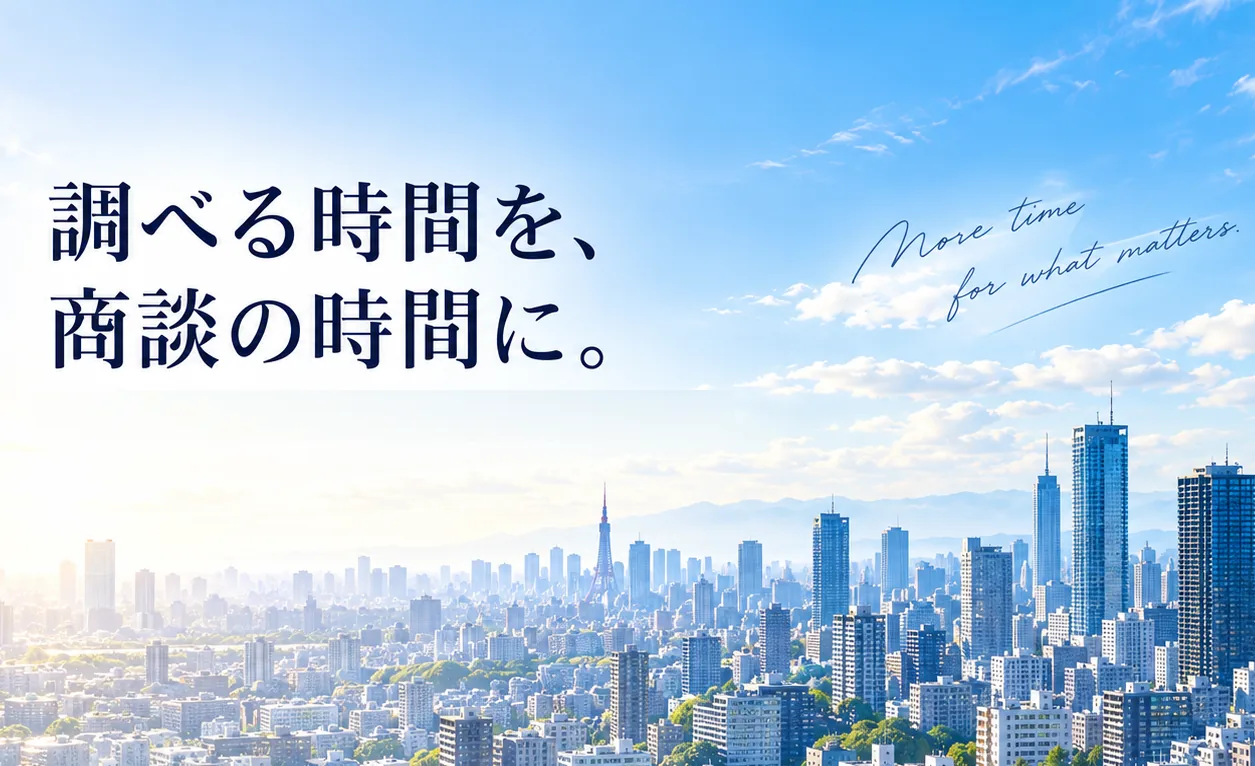
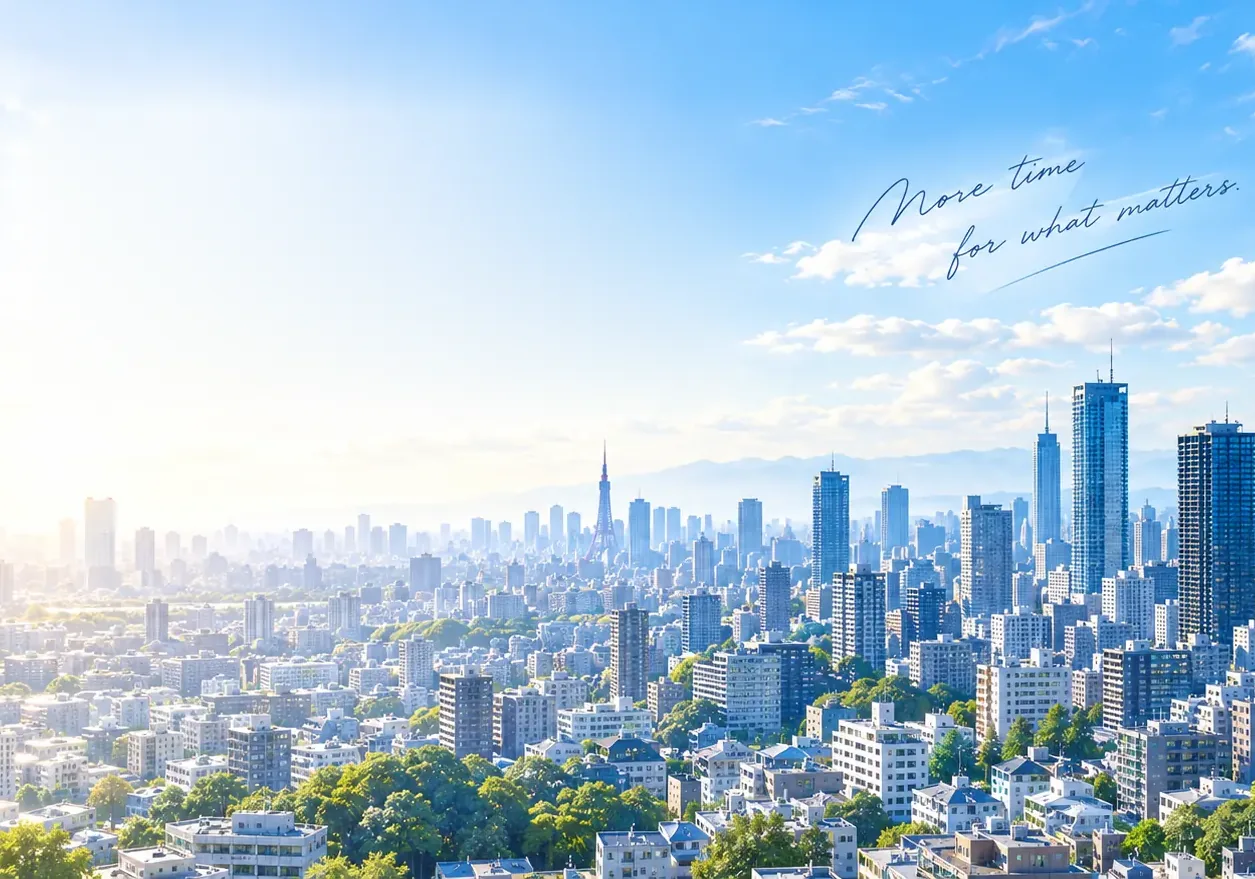
Show the skyline on the phone home and use one typeface
- The city photo keeps the delivered composition down to its bottom edge, and
  the search card moves down so the skyline shows between the headline and
  the card (and through the lighter frosted glass).
- The headline and tagline are drawn by the app at the picture's position and
  size; the photo no longer carries text.
- One typeface on the phone: Noto Sans JP everywhere. The serif section titles
  are gone and the Jost numerals in the result tabs use the body face too.
- The rest tightens slightly (recent cards, menu rows, banner) so the home
  still fits on iPhone mini, 16, 16 Pro and Pro Max. PC unchanged.

Claude-Session: https://claude.ai/code/session_01VXta14VyGyHnimiy8JAqdH

diff --git a/components/app/home.tsx b/components/app/home.tsx
@@ -1,18 +1,18 @@
 "use client";
 
 // スマホの新しいホーム（検索する前の画面）。届いた絵をそのまま使い、iPhone 16 Pro などの画面でスクロールせずに1画面に収まるように組んだもの。
-// 上から：街の写真（見出し「調べる時間を、商談の時間に。」は写真に入っている明朝の字。副題は同じゴシックでアプリが描く）の上にロゴ・お知らせ、
-// 調べるカード（住所も地番も1つの欄に入れる。地図で選ぶボタンつき。写真入りの「調査を開始する」）、最近の検索（写真つきのカードを横に
-// すべらせる）、調査メニュー（届いた絵の3Dアイコン・6つ）、書類を作るバナー（届いた絵。押すと書類・出力のページ）。
-// 字は写真の見出しに合わせて、章の見出し（最近の検索・調査メニュー）だけ同じ明朝（components/app/fonts.ts）。ほかは本文のゴシック。
-// 調べるカードはすりガラス（後ろの街の写真をぼかして見せる）。現れるときの動きとボタンの光は app/globals.css の .home-rise・.home-shine。
+// 上から：街の写真（届いた絵の構図のまま。見出し「調べる時間を、商談の時間に。」と副題は絵の字を消して、絵と同じ位置・大きさに
+// アプリの字で描く。写真の街並みが見出しの下に見えるよう、調べるカードは街並みの途中に重ねる）の上にロゴ・お知らせ、調べるカード
+// （住所も地番も1つの欄に入れる。地図で選ぶボタンつき。写真入りの「調査を開始する」）、最近の検索（写真つきのカードを横にすべらせる）、
+// 調査メニュー（届いた絵の3Dアイコン・6つ）、書類を作るバナー（届いた絵。押すと書類・出力のページ）。
+// 字はアプリ全体で Noto Sans JP の1種類（app/globals.css）。
+// 調べるカードはすりガラス（後ろの街の写真を少しぼかして透かす）。現れるときの動きとボタンの光は app/globals.css の .home-rise・.home-shine。
 // 寸法は幅393ptの値で、画面の幅に合わせて拡大・縮小する（components/app/zoom.ts）。幅に対して背の低い画面（iPhone SE など）では、
 // low:（app/globals.css）でカード・調査メニュー・バナーを少し詰める（それでも入りきらない分はスクロール）
 import { ArrowRight, Bell, ChevronRight, Info, LoaderCircle, Map as MapIcon, Search, TriangleAlert, X } from "lucide-react";
 import type { CSSProperties, RefObject } from "react";
 import { monthDay, placeholderScenes, placeParts, SCENES, sceneSrc, type SceneKey } from "@/lib/app/scene";
 import { historyKey, type HistoryItem } from "@/lib/history";
-import { serif } from "./fonts";
 import { LogoLockup, PhoneImg, ScaledInput } from "./frame";
 import type { TabKey } from "./property-head";
 import { NAVY } from "./ui";
@@ -29,19 +29,20 @@ const LINK = "#1f5fbf";
 const ACCENT = "linear-gradient(180deg,#3d7bff 0%,#22c1ee 100%)";
 
 /**
- * 写真の部分の高さ。写真（public/home/hero.webp）は届いた絵の 1672×941 から x125〜1380・y20〜786 を切り抜いたもので、幅393pt・高さ240pt
- * にぴったり合う（見出しの字は約25pt・上端は57pt）。調べるカードはこの下の方（158pt）に重ねる（カードの -mt）
+ * 写真の部分の高さ。写真（public/home/hero.webp）は届いた絵の 1672×941 から字を消して x125〜1380・y62〜941（下端まで）を切り抜いた
+ * もので、幅393pt・高さ275pt にぴったり合う。見出しは絵と同じ位置（上端44pt・字は25pt）に描く。街並みは147pt から下。
+ * 調べるカードは街並みが見えるよう 190pt から重ねる（カードの -mt）。写真の下端は地の色に溶かす
  */
-const PHOTO_H = 240;
+const PHOTO_H = 275;
 
-/** 写真の上の字が建物に重なっても読めるよう、白くにじませる（写真の見出しと同じ効き方） */
+/** 写真の上の字が建物に重なっても読めるよう、白くにじませる（届いた絵の見出しと同じ効き方） */
 const GLOW = "0 0 10px rgba(255,255,255,0.95), 0 0 3px rgba(255,255,255,0.95)";
-/** すりガラス（後ろをぼかして白く透かす。縁は白く光らせる） */
+/** すりガラス（後ろの街並みを少しぼかして白く透かす。縁は白く光らせる） */
 const GLASS: CSSProperties = {
-  background: "rgba(255,255,255,0.62)",
-  backdropFilter: "blur(18px) saturate(1.6)",
-  WebkitBackdropFilter: "blur(18px) saturate(1.6)",
-  border: "1px solid rgba(255,255,255,0.85)",
+  background: "rgba(255,255,255,0.46)",
+  backdropFilter: "blur(10px) saturate(1.5)",
+  WebkitBackdropFilter: "blur(10px) saturate(1.5)",
+  border: "1px solid rgba(255,255,255,0.8)",
 };
 /** 地の奥の淡い光（最近の検索から調査メニューのあたり。下の端に届く前に消える） */
 const AURORA =
@@ -109,34 +110,37 @@ export function HomeScreen({
   const scenes = placeholderScenes(recent);
 
   return (
-    <div className={`${serif.variable} app-touch relative overflow-hidden`} style={{ background: PAGE }}>
+    <div className="app-touch relative overflow-hidden" style={{ background: PAGE }}>
       <div aria-hidden className="pointer-events-none absolute inset-x-0 bottom-0" style={{ top: 280, background: AURORA }} />
 
-      {/* 街の写真の部分（見出しは写真の字。上端は時刻・電池の帯の色からつなぐ） */}
+      {/* 街の写真の部分（上端は時刻・電池の帯の色からつなぐ） */}
       <div className="relative overflow-hidden" style={{ height: PHOTO_H }}>
-        <PhoneImg src="/home/hero.webp" alt="" width={1255} height={766} draggable={false} className="absolute inset-0 h-full w-full object-cover" />
-        <div className="absolute inset-x-0 top-0" style={{ height: 48, background: `linear-gradient(180deg,${SKY} 0%,rgba(230,239,249,0) 100%)` }} />
-        <div className="absolute inset-x-0 bottom-0" style={{ height: 70, background: `linear-gradient(180deg,rgba(243,246,251,0) 0%,${PAGE} 92%)` }} />
-        <h1 className="sr-only">調べる時間を、商談の時間に。</h1>
-
-        <button onClick={onLogo} aria-label="MICHILU ホーム" className="absolute flex items-center" style={{ left: 16, top: 6, height: 44 }}>
-          <LogoLockup style={{ height: 30 }} />
+        <PhoneImg src="/home/hero.webp" alt="" width={1255} height={879} draggable={false} className="absolute inset-0 h-full w-full object-cover" />
+        <div className="absolute inset-x-0 top-0" style={{ height: 36, background: `linear-gradient(180deg,${SKY} 0%,rgba(230,239,249,0) 100%)` }} />
+        <div className="absolute inset-x-0 bottom-0" style={{ height: 40, background: `linear-gradient(180deg,rgba(243,246,251,0) 0%,${PAGE} 100%)` }} />
+        <button onClick={onLogo} aria-label="MICHILU ホーム" className="absolute flex items-center" style={{ left: 16, top: 4, height: 40 }}>
+          <LogoLockup style={{ height: 28 }} />
         </button>
-        <button onClick={onBell} aria-label={unread ? "お知らせ（新しいお知らせがあります）" : "お知らせ"} className="absolute flex items-center justify-center active:opacity-70" style={{ right: 8, top: 6, width: 44, height: 44 }}>
+        <button onClick={onBell} aria-label={unread ? "お知らせ（新しいお知らせがあります）" : "お知らせ"} className="absolute flex items-center justify-center active:opacity-70" style={{ right: 8, top: 3, width: 44, height: 44 }}>
           <span className="flex items-center justify-center rounded-full shadow-[0_4px_14px_rgba(15,47,95,0.14)]" style={{ ...GLASS, width: 38, height: 38 }}>
             <Bell size={19} strokeWidth={1.7} absoluteStrokeWidth color={HEAD} />
           </span>
           {unread && <span className="absolute rounded-full border-2 border-white bg-[#f0263a]" style={{ right: 6, top: 6, width: 11, height: 11 }} />}
         </button>
 
-        {/* 副題（写真の中の字は消してある。写真のままだと8.5ptで小さいので、同じゴシックで描く） */}
-        <p className="home-rise absolute whitespace-nowrap font-medium leading-none" style={{ left: 16, top: 125, fontSize: 12, letterSpacing: 0.9, color: "#26324a", textShadow: GLOW, fontFeatureSettings: '"palt"', ...rise(60) }}>
+        {/* 見出しと副題（絵と同じ位置・大きさ。絵の字は消してある） */}
+        <h1 className="home-rise absolute whitespace-nowrap font-bold" style={{ left: 16, top: 44, fontSize: 25, lineHeight: "33px", letterSpacing: 0.8, color: HEAD, textShadow: GLOW, fontFeatureSettings: '"palt"' }}>
+          調べる時間を、
+          <br />
+          商談の時間に。
+        </h1>
+        <p className="home-rise absolute whitespace-nowrap font-medium leading-none" style={{ left: 16, top: 112, fontSize: 12, letterSpacing: 0.9, color: "#26324a", textShadow: GLOW, fontFeatureSettings: '"palt"', ...rise(60) }}>
           不動産調査を、もっと早く、もっとシンプルに。
         </p>
       </div>
 
       {/* 調べる（すりガラスのカード。住所も地番もこの欄に入れる） */}
-      <div className="home-rise relative mx-[16px] -mt-[82px] rounded-[22px] p-[10px] shadow-[0_14px_34px_rgba(20,48,95,0.13)] low:p-[8px]" style={{ ...GLASS, ...rise(100) }}>
+      <div className="home-rise relative mx-[16px] -mt-[85px] rounded-[22px] p-[9px] shadow-[0_14px_34px_rgba(20,48,95,0.13)] low:p-[8px]" style={{ ...GLASS, ...rise(100) }}>
         <form
           role="search"
           onSubmit={(e) => {
@@ -216,7 +220,7 @@ export function HomeScreen({
                     aria-label={`${full}（${monthDay(h.at)}${kind ? `・${kind}` : ""}）を開く`}
                     className="block w-full overflow-hidden rounded-[16px] bg-white text-left shadow-[0_4px_14px_rgba(20,45,85,0.10)] transition-transform active:scale-[0.97]"
                   >
-                    <span className="relative block h-[62px] low:h-[50px]">
+                    <span className="relative block h-[52px] low:h-[46px]">
                       <PhoneImg src={sceneSrc(scene)} alt="" loading="lazy" draggable={false} className="block h-full w-full object-cover" style={{ objectPosition: `50% ${SCENES[scene].y}%` }} />
                       {kind && (
                         <span className="absolute rounded-full bg-white/85 px-[7px] py-[4px] font-bold leading-none backdrop-blur" style={{ left: 6, top: 6, fontSize: 10.5, color: NAVY }}>
@@ -245,14 +249,14 @@ export function HomeScreen({
       {/* 調査メニュー（届いた絵の3Dアイコン） */}
       <section className="home-rise relative mt-[2px]" style={rise(220)}>
         <SectionHead title="調査メニュー" onMore={onMenuAll} />
-        <div className="mt-[2px] grid grid-cols-2 gap-[7px] px-[16px] low:gap-[6px]">
+        <div className="mt-[2px] grid grid-cols-2 gap-[6px] px-[16px] low:gap-[5px]">
           {MENU.map((m) => (
             <button
               key={m.title}
               onClick={() => onMenu(m.tab, m.title)}
-              className="flex h-[48px] min-w-0 items-center rounded-[16px] border border-white bg-white text-left shadow-[0_4px_14px_rgba(20,45,85,0.07)] transition-transform active:scale-[0.97] low:h-[44px]"
+              className="flex h-[44px] min-w-0 items-center rounded-[16px] border border-white bg-white text-left shadow-[0_4px_14px_rgba(20,45,85,0.07)] transition-transform active:scale-[0.97] low:h-[42px]"
             >
-              <PhoneImg src={`/home/menu/${m.icon}.webp`} alt="" draggable={false} className="ml-[2px] block size-[44px] shrink-0 low:size-[40px]" />
+              <PhoneImg src={`/home/menu/${m.icon}.webp`} alt="" draggable={false} className="ml-[2px] block size-[40px] shrink-0 low:size-[38px]" />
               <span className="ml-[4px] min-w-0 flex-1">
                 <span className="block whitespace-nowrap font-bold leading-[1.25]" style={{ fontSize: 14, color: TEXT, fontFeatureSettings: '"palt"' }}>
                   {m.title}
@@ -270,7 +274,7 @@ export function HomeScreen({
       {/* 書類を作る（届いた絵のバナー。写真の書類の左の空いた所に字を置く。押すと書類・出力のページ） */}
       <button
         onClick={onDocs}
-        className="home-rise relative mx-[16px] mb-[10px] mt-[10px] block h-[62px] w-[calc(100%-32px)] overflow-hidden rounded-[16px] text-left shadow-[0_6px_20px_rgba(60,40,20,0.10)] transition-transform active:scale-[0.985] low:mb-[8px] low:mt-[8px] low:h-[56px]"
+        className="home-rise relative mx-[16px] mb-[8px] mt-[8px] block h-[58px] w-[calc(100%-32px)] overflow-hidden rounded-[16px] text-left shadow-[0_6px_20px_rgba(60,40,20,0.10)] transition-transform active:scale-[0.985] low:mb-[6px] low:mt-[6px] low:h-[54px]"
         style={rise(280)}
       >
         <PhoneImg src="/home/docs.webp" alt="" loading="lazy" draggable={false} className="absolute inset-0 h-full w-full object-cover" style={{ objectPosition: "0% 50%" }} />
@@ -290,13 +294,13 @@ export function HomeScreen({
   );
 }
 
-/** 章の見出し（写真の見出しと同じ明朝。左に青い印）と「すべて見る ›」（押せる高さは44pt） */
+/** 章の見出し（左に青い印）と「すべて見る ›」（押せる高さは44pt） */
 function SectionHead({ title, onMore }: { title: string; onMore?: () => void }) {
   return (
-    <div className="flex h-[28px] items-center justify-between px-[16px] low:h-[26px]">
+    <div className="flex h-[26px] items-center justify-between px-[16px]">
       <div className="flex min-w-0 items-center gap-[7px]">
         <span aria-hidden className="shrink-0 rounded-full" style={{ width: 3.5, height: 15, background: ACCENT }} />
-        <h2 className="home-serif whitespace-nowrap font-bold leading-none" style={{ fontSize: 17, color: HEAD, letterSpacing: 0.5 }}>
+        <h2 className="whitespace-nowrap font-bold leading-none" style={{ fontSize: 17, color: HEAD, letterSpacing: 0.3 }}>
           {title}
         </h2>
       </div>
@@ -316,7 +320,7 @@ function FirstRun() {
     <div className="mx-[16px] mb-[4px] mt-[2px] rounded-[16px] bg-white p-[10px] shadow-[0_4px_14px_rgba(20,45,85,0.08)]">
       <div className="grid grid-cols-3 gap-[6px]">
         {SAMPLE.map((k) => (
-          <PhoneImg key={k} src={sceneSrc(k)} alt="" loading="lazy" draggable={false} className="block h-[46px] w-full rounded-[10px] object-cover low:h-[36px]" style={{ objectPosition: `50% ${SCENES[k].y}%` }} />
+          <PhoneImg key={k} src={sceneSrc(k)} alt="" loading="lazy" draggable={false} className="block h-[40px] w-full rounded-[10px] object-cover low:h-[34px]" style={{ objectPosition: `50% ${SCENES[k].y}%` }} />
         ))}
       </div>
       <p className="mt-[8px] px-[2px] font-bold leading-[1.3]" style={{ fontSize: 14, color: TEXT }}>

diff --git a/app/globals.css b/app/globals.css
@@ -43,6 +43,10 @@
   --color-mint: #e8eef5;
   --color-line: #dde5ee;
 }
+/* スマホの画面の字は Noto Sans JP の1種類にそろえる（数字・英字の Jost も使わない。PC はそのまま） */
+.theme-navy {
+  --font-latin: var(--font-noto-sans-jp), "Hiragino Sans", "Noto Sans JP", sans-serif;
+}
 .theme-navy .bg-gold {
   background: linear-gradient(135deg, #1b4280 0%, #0f2f5f 55%, #0a2248 100%);
 }
@@ -84,7 +88,7 @@
 /*
  * スマホの新しいホーム（components/app/home.tsx）を1画面に収める詰め方。ホームは幅で拡大・縮小するので、幅に対して背の低い画面
  * （高さ÷幅が 1.985 より小さい。iPhone SE・8 Plus など）では、調べるカード・最近の検索・調査メニュー・バナーを少し詰める
- * （写真の見出しは写真の字なので詰められない。SE・8 Plus はそれでも少しスクロールする）。
+ * （写真の部分は写真の字と街並みなので詰められない。SE・8 Plus はそれでもスクロールする）。
  * iPhone の mini・無印・Pro・Pro Max（ホーム画面に追加したアプリ）は詰めずに収まる。ホームの高さを変えたら 1.985 も見直す
  */
 @custom-variant low {
@@ -119,13 +123,6 @@ body {
   font-family: var(--font-noto-sans-jp), "Hiragino Sans", "Noto Sans JP", sans-serif;
   font-feature-settings: "palt"; /* 約物を詰めて見た目を整える */
   letter-spacing: 0.01em;
-}
-
-/* スマホの新しいホームの章の見出しの明朝（components/app/fonts.ts。写真の見出しと同じ字）。PC の幅では使わない */
-@media (max-width: 1023px) {
-  .home-serif {
-    font-family: var(--font-serif-jp), serif;
-  }
 }
 
 /*

diff --git a/docs/features.md b/docs/features.md
@@ -228,9 +228,9 @@
 44. **要注意点と次にやること**（`lib/app/triage.ts`、`components/triage-sheet.tsx`、`lib/checklist.ts`）: 調べた結果を並べる前に、この物件で問題になりそうな所（要注意＝データで制限・危険が見つかった、要確認＝データが無い・参考なので確かめる）と、窓口ごとの次にやること（何を・どこで・どうやって・持ち物・リンク・電話）を出す。やることは済んだ印を端末に残せる（物件ごと）。スマホは「レポートを作成」の先頭、PC は印刷のメニューの先頭から開き、共有の文の先頭・調査メモ（印刷）の見出しの下にも入る。確認用ページ `/check` にも出す。画面のどこに「先に」出すかは見た目の方針に合わせて決める（部品 `TriageBody` と見出しの一言 `triage.headline` はどこにでも置ける）。法令の判断はしない。
 
 45. **スマホの新しいホーム**（`components/app/home.tsx`、素材は `public/home/`）: 届いた絵（街の写真・写真入りの「調査を開始する」・調査メニューの3Dアイコン・書類のバナー）をそのまま使い、スクロールせずに1画面に収める。PC は変えない。
-    - 上から：街の写真（見出し「調べる時間を、商談の時間に。」は届いた絵の明朝の字のまま。副題は絵のままだと8.5ptで小さいので消して、同じゴシックでアプリが描く）の上にロゴ・お知らせ、調べるカード、最近の検索、調査メニュー（2列×3段）、書類を作るバナー（押すと書類・出力のページ）。文字は iPhone のアプリに近い大きさ（入力15pt・ボタン16pt・カードの名前14pt・説明10.5〜12pt）。
+    - 上から：街の写真（届いた絵の構図のまま、字を消して x125〜1380・y62〜941 を切り抜く。見出し「調べる時間を、商談の時間に。」と副題は絵と同じ位置・大きさにアプリの字で描く。街並みが見出しの下に見えるよう、調べるカードは街並みの途中 190pt から重ねる）の上にロゴ・お知らせ、調べるカード、最近の検索、調査メニュー（2列×3段）、書類を作るバナー（押すと書類・出力のページ）。文字は iPhone のアプリに近い大きさ（見出し25pt・入力15pt・ボタン16pt・カードの名前14pt・説明10.5〜12pt）。
     - 入力欄は1つ（住所・地番を入力）。地番かどうかは調べるときに見分ける（`lib/roadmap/parcel.ts` の splitChiban。「地番」と書いてもよい）。地図は欄の右の「地図」から開く（地図の画面に「現在地」）。
-    - 字は写真の見出しに合わせる：章の見出し（最近の検索・調査メニュー）だけ同じ明朝（`components/app/fonts.ts`。スマホの幅だけ読み込む）、ほかは本文のゴシック。
+    - 字はスマホの画面全体で Noto Sans JP の1種類（明朝は使わない。数字・英字の Jost も `.theme-navy` の中では使わない。`app/globals.css`）。
     - 見た目：調べるカードはすりガラス（後ろの写真をぼかす）、入力欄は細い線の白い丸い欄（押すと薄く光る）に「地図」のボタン、「調査を開始する」は届いた写真入りのボタン（高さ48pt）、見出しの左に青い印。上から順に浮き上がって現れ、「調査を開始する」の上を光が流れる（`app/globals.css` の .home-rise・.home-shine。動きを減らす設定の端末では動かさない）。
     - 1画面に収める高さ：iPhone の mini・無印・Pro・Pro Max（ホーム画面に追加したアプリ）はそのまま収まる。幅に対して背の低い画面（SE・8 Plus など）は `low:`（`app/globals.css`）でカード・調査メニュー・バナーを少し詰めるが、それでもバナーの分は少しスクロールする。案内・注意が出ているときも、その分だけスクロールする。
     - 時刻・電池の帯の色は、スマホの幅だけ写真の上の空の色にする（`app/layout.tsx` の themeColor）。写真の上端をその色からつなぐ。
@@ -240,7 +240,7 @@
     - 下のメニューはホーム・履歴・お気に入り・書類・出力・その他（アイコン約24pt・名前10.5pt）。「書類・出力」は、物件を開いていればその物件の「レポートを作成」を開き、開いていなければ作れる書類と最近の物件の一覧を出す（選ぶと、調べ終わったところでレポートを開く）。
     - 履歴・お気に入り・書類・出力・その他のページは、大きな見出しと白い角丸の一覧の形（`components/app/tab-pages.tsx`）。物件の結果の画面は、まだ前の見た目（文字が小さい）。
     - ベルはアプリの更新のお知らせ（`components/app/news.tsx`。見たかどうかは端末に保存）。
-    - 素材の焼き込みの文字は、写真の見出しだけ残し、副題・ボタン・バナーの字は消してアプリで描く。ホームの写真・アイコンと明朝は、スマホの幅のときだけ読み込む（最初の表示はスマホの画面で、PC は表示のあとで PC の画面に切り替わるため）。
+    - 素材の焼き込みの文字（見出し・副題・ボタン・バナー）は消して、字はアプリで描く。ホームの写真・アイコンは、スマホの幅のときだけ読み込む（最初の表示はスマホの画面で、PC は表示のあとで PC の画面に切り替わるため）。
 
 ## Won't（今は作らない）
 
